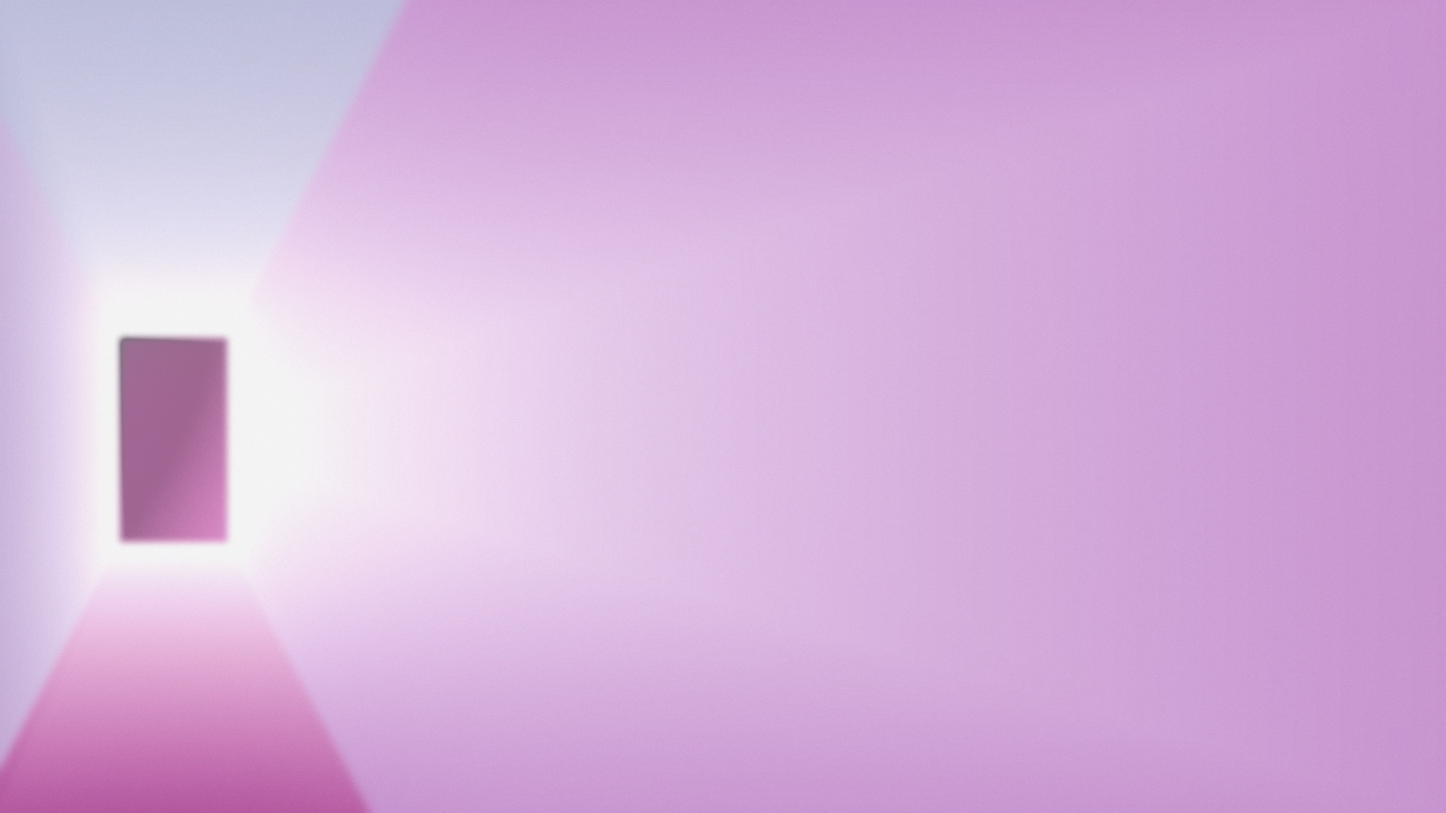
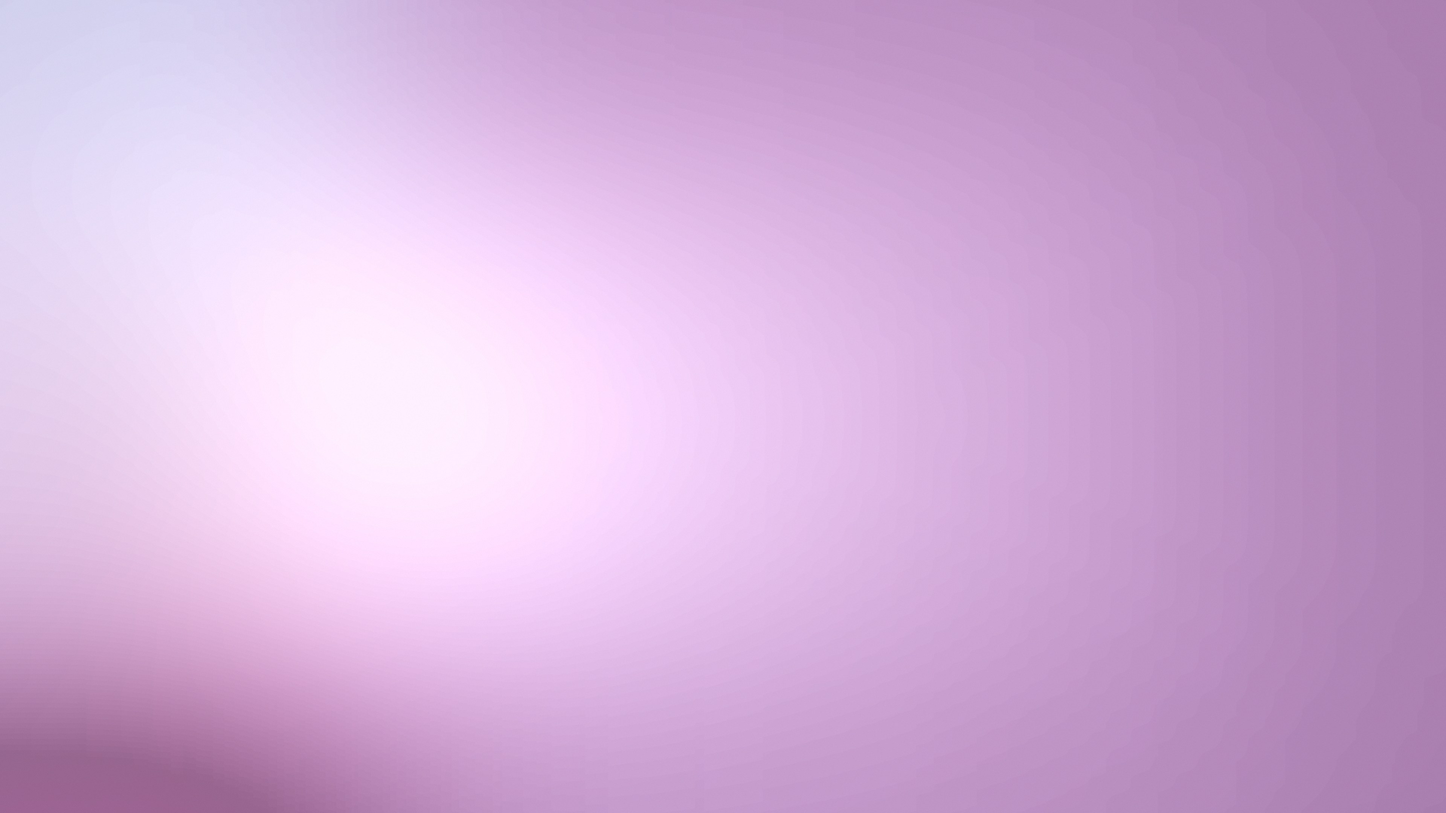
Blur the gradient rooms and add 56 soft abstractions; grid leads the README
The six lit rooms now ship fully blurred, dark and light — a Gaussian blur
of 0.16 x the height applied in the grading step, so each reads as a soft
field of its own colour instead of a hard-edged box. The ungraded UI art
crops in docs/images/art stay sharp (the crop is taken before the blur).

Fifty-six external 4K abstractions are added as backgrounds/abstract-01..56.jpg,
cover-cropped to 3840 x 2160 and JPEG-compressed with no blur and no grading
(they are already soft fields). Every wallpaper is selectable from Omarchy's
switcher; the abstractions are dark-set only.

Previews and grids regenerated. The README now leads with the backgrounds
grid; counts (63 wallpapers), the blur description, and the background.py
repro commands are updated across README.md, backgrounds/README.md and
docs/principles.md.

diff --git a/README.md b/README.md
@@ -16,6 +16,15 @@ understand the grid, set a clean type scale, art-direct a few key widgets,
 then propagate — is his, and his widget studies are the visual reference. He
 is not involved in this project; the name is a credit, not an endorsement.
 
+![Marvin backgrounds](docs/images/backgrounds-dark.png)
+
+Sixty-three wallpapers ship, and the wallpaper is the ground the whole
+system sits on. Seven are gradient rooms drawn from the palette — lit boxes
+in perspective, now fully blurred into soft colour fields and graded so the
+bar and every card read as surfaces over them. The other fifty-six are soft
+colour abstractions. The plain ground comes first, so an empty desktop reads
+exactly like the widget sheet.
+
 ![Marvin, light](light/preview.png)
 
 ![Marvin, dark](preview.png)
@@ -37,8 +46,6 @@ with one notification, then the shipped backgrounds themselves:
 ![Workspace, dark](docs/images/workspace-dark.png)
 
 ![Backgrounds, light](docs/images/backgrounds-light.png)
-
-![Backgrounds, dark](docs/images/backgrounds-dark.png)
 
 These are renders from the tokens, not screenshots of the shell — see
 [Testing it](#testing-it).
@@ -233,20 +240,23 @@ travels with them in `plugins/LICENSE-omarchy`.
 ## Backgrounds
 
 The wallpaper is the ground the whole system sits on, so it is graded, not
-chosen: a painting left sharp, so the brushwork stays, saturation
-pushed up a little so the field stays rich, mixed lightly toward the theme
-ground, luminance clamped into a band the bar stays readable over, grain
-added against banding.
+chosen: saturation pushed up a little so the field stays rich, mixed lightly
+toward the theme ground, luminance clamped into a band the bar stays
+readable over, grain added against banding.
 
-Seven backgrounds ship. The first is no image at all: the reference's own
-ground, white falling to the base grey, so the desktop reads exactly like
-the widget sheet. The other six are lit rooms, drawn by
-`tools/background.py` at 4K, nothing borrowed: a box in perspective whose walls, floor and ceiling are gradient
-planes converging on a small door or window at the far end, light blooming
-from it, a whisper of grain. Each room is one run of the system's colours
-plus the hot magenta and orange the idiom wants. The same six, ungraded,
-are the imagery inside the widgets (`docs/images/art/`): album art,
-thumbnails, screen-share previews, the mood board.
+Sixty-three backgrounds ship. The first is no image at all: the reference's
+own ground, white falling to the base grey, so the desktop reads exactly
+like the widget sheet. The next six are lit rooms, drawn by
+`tools/background.py` at 4K, nothing borrowed: a box in perspective whose
+walls, floor and ceiling are gradient planes converging on a small door or
+window at the far end, light blooming from it, a whisper of grain — then
+fully blurred, so each room reads as a soft field of its own colour rather
+than a hard-edged box. The same six, ungraded and left sharp, are the
+imagery inside the widgets (`docs/images/art/`): album art, thumbnails,
+screen-share previews, the mood board. The remaining fifty-six
+(`backgrounds/abstract-*.jpg`) are soft colour abstractions, cover-cropped
+to 3840 × 2160 and compressed — no grading and no extra blur, since they are
+already fields. Every wallpaper is selectable from Omarchy's switcher.
 
 | | Background | Colours |
 |---|---|---|
@@ -258,16 +268,20 @@ thumbnails, screen-share previews, the mood board.
 | 6 | Dusk | violet meets orange, a pink door |
 | 7 | Magenta | violet, cyan and magenta, an orange-edged door |
 
-They are original, so they carry this repository's licence. To draw more,
-or to grade a painting or photo of your own:
+The gradient rooms are original, so they carry this repository's licence. The
+fifty-six abstractions are external images added as wallpapers — confirm you
+have the right to redistribute them before publishing a fork. To draw more
+rooms, or to grade a painting or photo of your own:
 
 ```
-tools/background.py --style corridors --palette sky --index 7 --seed 21 --crop-out docs/images/art
-tools/background.py --source path/to/yours.jpg --name mine --index 8 --blur 0.045 --crop-out docs/images/art
+tools/background.py --style corridors --palette sky --index 8 --seed 21 --blur 0.16 --crop-out docs/images/art
+tools/background.py --source path/to/yours.jpg --name mine --index 9 --blur 0.045 --crop-out docs/images/art
 ```
 
 Seven palettes are built in (`ember lilac sky citrus dusk tide magenta`);
-every seed is a different room. Rooms ship unblurred, since their softness
-is drawn in; a painting gets a 4.5 % blur so the desktop stays a field.
+every seed is a different room. Rooms now ship fully blurred — a Gaussian
+radius of 0.16 × the height, so each reads as a soft field; a painting gets
+a 4.5 % blur so the desktop stays a field. The `--crop-out` crop is taken
+before the blur, so the UI art stays sharp.
 
 It writes both tones. Needs Pillow and numpy.

diff --git a/backgrounds/README.md b/backgrounds/README.md
@@ -1,9 +1,10 @@
 # Backgrounds
 
-A plain ground and six lit rooms per tone, drawn by `tools/background.py`
-at 3840 × 2160. The light set is under `light/backgrounds/`, graded to the
-light ground; the ungraded rooms are in `docs/images/art/` for imagery
-inside the UI.
+A plain ground and six blurred gradient rooms per tone, drawn by
+`tools/background.py` at 3840 × 2160, plus fifty-six soft colour
+abstractions (`abstract-*.jpg`, dark set only). The light set is under
+`light/backgrounds/`, graded to the light ground; the ungraded, still-sharp
+rooms are in `docs/images/art/` for imagery inside the UI.
 
 | File | Style | Palette | Seed |
 |------|-------|---------|------|
@@ -26,18 +27,28 @@ its own gradient; light from it is bloomed outward and screened in; a
 repository's own work, so it carries the MIT licence.
 
 Grading, per tone: saturation × 1.0, no mix, luminance kept inside
-0.02–0.90 (dark) or 0.20–0.92 (light), grain 1.6. No blur: the softness
-is drawn in. Reproducible:
+0.02–0.90 (dark) or 0.20–0.92 (light), grain 1.6, then a Gaussian blur of
+0.16 × the height so each room reads as a soft field. Reproducible:
 
 ```
 tools/background.py --style plain --index 1
-tools/background.py --style corridors --palette ember   --name ember   --index 2 --seed 8 --blur 0 --sat 1 --mix 0 --crop-out docs/images/art
-tools/background.py --style corridors --palette lilac   --name lilac   --index 3 --seed 3 --blur 0 --sat 1 --mix 0 --crop-out docs/images/art
-tools/background.py --style corridors --palette sky     --name sky     --index 4 --seed 8 --blur 0 --sat 1 --mix 0 --crop-out docs/images/art
-tools/background.py --style corridors --palette citrus  --name citrus  --index 5 --seed 8 --blur 0 --sat 1 --mix 0 --crop-out docs/images/art
-tools/background.py --style corridors --palette dusk    --name dusk    --index 6 --seed 8 --blur 0 --sat 1 --mix 0 --crop-out docs/images/art
-tools/background.py --style corridors --palette magenta --name magenta --index 7 --seed 8 --blur 0 --sat 1 --mix 0 --crop-out docs/images/art
+tools/background.py --style corridors --palette ember   --name ember   --index 2 --seed 8 --blur 0.16 --sat 1 --mix 0 --crop-out docs/images/art
+tools/background.py --style corridors --palette lilac   --name lilac   --index 3 --seed 3 --blur 0.16 --sat 1 --mix 0 --crop-out docs/images/art
+tools/background.py --style corridors --palette sky     --name sky     --index 4 --seed 8 --blur 0.16 --sat 1 --mix 0 --crop-out docs/images/art
+tools/background.py --style corridors --palette citrus  --name citrus  --index 5 --seed 8 --blur 0.16 --sat 1 --mix 0 --crop-out docs/images/art
+tools/background.py --style corridors --palette dusk    --name dusk    --index 6 --seed 8 --blur 0.16 --sat 1 --mix 0 --crop-out docs/images/art
+tools/background.py --style corridors --palette magenta --name magenta --index 7 --seed 8 --blur 0.16 --sat 1 --mix 0 --crop-out docs/images/art
 ```
+
+The fifty-six `abstract-*.jpg` are not drawn by the tool: they are external
+4K abstractions, cover-cropped to 3840 × 2160 and JPEG-compressed with no
+blur and no grading (they are already soft fields):
+
+```
+ffmpeg -i in.jpg -vf "scale=3840:2160:force_original_aspect_ratio=increase,crop=3840:2160" -q:v 8 abstract-NN.jpg
+```
+
+Confirm you have the right to redistribute them before publishing a fork.
 
 `--source` still grades a painting or photograph (blurred at 4.5 % for the
 desktop, `--allow-upscale` under a blur), and `--style orphic|planes`

diff --git a/docs/principles.md b/docs/principles.md
@@ -214,15 +214,16 @@ the short step and workspaces get the long one, the inverse of upstream.
 ## Backgrounds
 
 Confirmed. A lit room drawn in perspective from the system's own colours,
-four gradient planes converging on a far opening, light bloomed; or, for a
-painting of your own, blurred into a
-colour field, graded so it complements the palette: saturation up (1.5,
-the reference's imagery is rich, not pastel), mixed lightly toward the
-ground, luminance in a band the bar reads over (dark 0.02–0.34, light
-0.30–0.90), fine grain against banding. `tools/background.py` is the
-rule made executable. Shipped set: Monet's *Houses of Parliament, Sunset*,
-Van Gogh's *Starry Night*, Kandinsky's *Composition VII*, all public domain,
-chosen for sharing the system's sky blue, navy, pale yellow and orange.
+four gradient planes converging on a far opening, light bloomed — then fully
+blurred, so each room reads as a soft field of its own colour; or, for a
+painting of your own, blurred into a colour field, graded so it complements
+the palette: saturation up (1.5, the reference's imagery is rich, not
+pastel), mixed lightly toward the ground, luminance in a band the bar reads
+over (dark 0.02–0.34, light 0.30–0.90), fine grain against banding.
+`tools/background.py` is the rule made executable. Shipped set: a plain
+ground, six blurred gradient rooms (ember, lilac, sky, citrus, dusk,
+magenta), and fifty-six soft colour abstractions — sixty-three wallpapers,
+every one selectable from Omarchy's switcher.
 
 ## Apps
 
